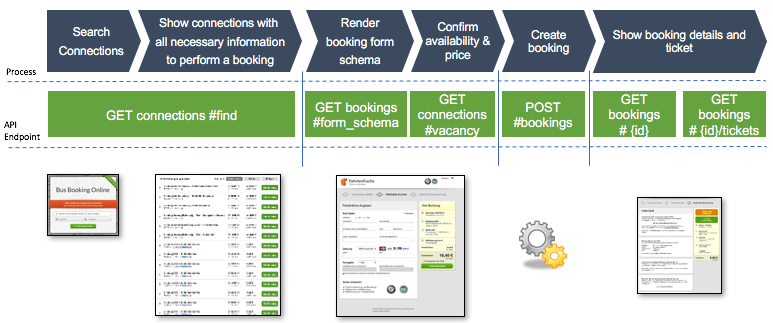
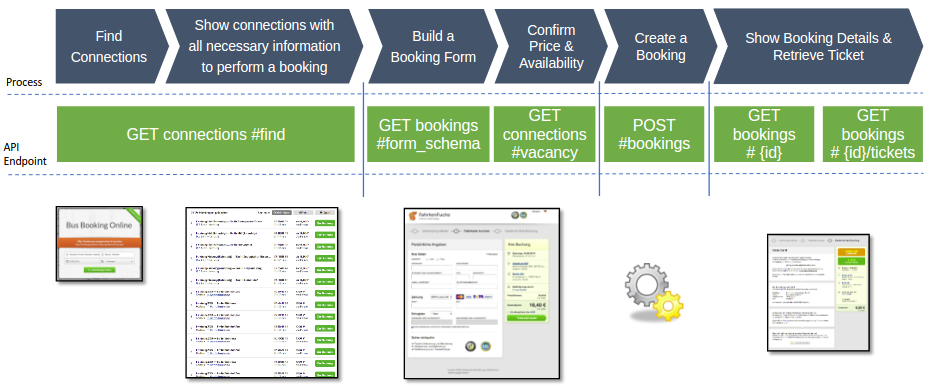
add-dictionary-and-team-picture

diff --git a/source/index.html.md b/source/index.html.md
@@ -20,17 +20,17 @@ search: true
 
 Dear partner,
 
-You made it - in front of you lies the most loved API in transporation industry. Actually it is mostly the love of our dev and product team so far due to it being super brand new, but hope you will fall in love soon too. Anytime feel free to write to me personally to partner@distribusion.com in case you are unhappy or our baby is not behaving as you expected.
+You made it - in front of you lies the most loved API in transporation industry. Actually it is mostly the love of our dev and product team so far due to it being super brand new, but hope you will fall in love soon too. Anytime feel free to write to me personally to [mailto:partner@distribusion.com](partner@distribusion.com) in case you are unhappy or our baby is not behaving as you expected.
 
 You can trust on us working hard everyday to make it your most loved product.
 
 Your Distribusion IT team
 
-[Picture of the whole Distribusion team]
+![alt text](/images/distribusion-it-team.png)
 
-You can use our API to access Distribusion content and book bus rides. We have put a lot of thoughts into making it as easy as possible to integrate with us. Have fun and share your feedback with us! 
+You can use our API to access Distribusion content and book bus rides. We have put a lot of thoughts into making it as easy as possible to integrate with us. Have fun and share your feedback with us!
 
-In this new API, Distribusion aim to standardize the stations codes across the bus industry, the same way IATA did in the flight industry. Our stations code are designed to represent specific locations using a set of 8 capital letters. The construction of such code follow a simple logic: 
+In this new API, Distribusion aim to standardize the stations codes across the bus industry, the same way IATA did in the flight industry. Our stations code are designed to represent specific locations using a set of 8 capital letters. The construction of such code follow a simple logic:
 
 - The first two letters represent the country
 - The next three, the city in which the station is located
@@ -38,12 +38,12 @@ In this new API, Distribusion aim to standardize the stations codes across the b
 
 Example: GBLONVSA - Great Britain / London / Victoria station
 
-When integrating and testing our API, please use the following URL: [https://api-demo.distribusion.com/retailers/v3](https://api-demo.distribusion.com/retailers/v3)
-Documentation for the API v2 can still be found at [Distribusion API](https://api-demo.distribusion.com/reseller/v2/docs) 
+When integrating and testing our API, please use the following URL: `https://api-demo.distribusion.com/retailers/v3`
+Documentation for the API v2 can still be found at [https://api-demo.distribusion.com/reseller/v2/docs](https://api-demo.distribusion.com/reseller/v2/docs)
 
 # Getting Started
 
-When performing a booking through Distribusion API, they are multiple steps that are required. This section is dedicated to describe the standard flow, necessary to search for connections, retrieve availability and prices, build the booking form and perform a booking. 
+When performing a booking through Distribusion API, they are multiple steps that are required. This section is dedicated to describe the standard flow, necessary to search for connections, retrieve availability and prices, build the booking form and perform a booking.
 
 ![alt text](/images/API_V3.0_Workflow.png)  
 
@@ -57,19 +57,19 @@ After retrieving station codes, you can now start searching for connections by s
 
 <aside class="success">
 Remember — to query information from our API, you need to get your own API key!
-</aside> 
-
-## Confirm Price and Availability
-
-As [connections#find](https://api-demo.distribusion.com/retailers/v3/docs/#find) provides the cheapest adult price, it is some time necessary to confirm the price of specific passenger types by calling [connections#vacancy](https://api-demo.distribusion.com/retailers/v3/docs/#vacancy). This call is also recommended prior to perform a booking, in order to ensure the prices and availability are still up to date. 
+</aside>
 
 ## Build a Booking Form
 
-In order to accomodate the specific requirements of each marketing carrier and increase conversion rate, we also deliver a dynamic booking form. Mandatory information as well as the validation rules applied to each parameters are provided through our [bookings#form_schema](https://api-demo.distribusion.com/retailers/v3/docs/#form-schema) endpoint. 
+In order to accomodate the specific requirements of each marketing carrier and increase conversion rate, we also deliver a dynamic booking form. Mandatory information as well as the validation rules applied to each parameters are provided through our [bookings#form_schema](https://api-demo.distribusion.com/retailers/v3/docs/#form-schema) endpoint.
+
+## Confirm Price and Availability
+
+As [connections#find](https://api-demo.distribusion.com/retailers/v3/docs/#find) provides the cheapest adult price, it is some time necessary to confirm the price of specific passenger types by calling [connections#vacancy](https://api-demo.distribusion.com/retailers/v3/docs/#vacancy). This call is also recommended prior to perform a booking, in order to ensure the prices and availability are still up to date.
 
 ## Create a Booking
 
-After gathering information on a specific connection and the passenger information, you can now send a booking request towards Distribusion's API on [bookings#create](https://api-demo.distribusion.com/retailers/v3/docs/#create). The parameters to be sent are dependant of the marketing carrier and should have been delivered to you through the [bookings#form_schema](https://api-demo.distribusion.com/retailers/v3/docs/#form-schema). In case any information is missing, the API will recognise it and inform you accordingly. 
+After gathering information on a specific connection and the passenger information, you can now send a booking request towards Distribusion's API on [bookings#create](https://api-demo.distribusion.com/retailers/v3/docs/#create). The parameters to be sent are dependant of the marketing carrier and should have been delivered to you through the [bookings#form_schema](https://api-demo.distribusion.com/retailers/v3/docs/#form-schema). In case any information is missing, the API will recognise it and inform you accordingly.
 
 ## Postman
 
@@ -547,7 +547,7 @@ curl 'https://api.distribusion.com/retailers/v3/bookings/form_schema?marketing_c
 }
 ```
 
-To create a booking, you will need to retrieve specific information from the customer. In order to do so, you can render a booking form, which is specific to a certain connection and or marketing carrier. This endpoint will deliver you the JSON schema, describing the necessary parameters needed to perform a booking. 
+To create a booking, you will need to retrieve specific information from the customer. In order to do so, you can render a booking form, which is specific to a certain connection and or marketing carrier. This endpoint will deliver you the JSON schema, describing the necessary parameters needed to perform a booking.
 
 ### HTTP Request
 
@@ -788,7 +788,7 @@ Parameter                 | Mandatory | Description
 `zip_code` | true | 2-10-letter alphanumeric string.
 `street_and_number`       | true      | 1-99-letter alphanumeric string.
                           |           |
-`execute_payment`         | true      | Can be `true` or `false`. Flag signalling whether the payment transaction should be executed. 
+`execute_payment`         | true      | Can be `true` or `false`. Flag signalling whether the payment transaction should be executed.
 `payment_method`          | true      | Allowed value: `demand_note`, `credit_card`, `sepa_direct_debit`, `paypal`.
 `payment_token`           | false     | Unique identifier supplied by the payment service provider.
 `payer_id`                | false     | Unique identifier supplied by Paypal.
@@ -800,11 +800,11 @@ Parameter                 | Mandatory | Description
                           |           |  
 `locale`                  | true      | 2-letter alphanumeric lowercase code, according to ISO 639-1 standard.
 `currency`                | true      | 3-letter alphanumeric uppercase code, according to ISO 4217 standard.
-`send_customer_email`     | true      | Flag for sending out (or preventing) of the customer confirmation email from Distribusion. Can be `true` or `false`. 
+`send_customer_email`     | true      | Flag for sending out (or preventing) of the customer confirmation email from Distribusion. Can be `true` or `false`.
                           |           |
 `passengers`              | true      | Array
 `fist_name`               | true      | First name of the passenger, 1-50-letter alphanumeric string.
-`last_name`               | true      | Last name of the customer, 1-50-letter alphanumeric string. 
+`last_name`               | true      | Last name of the customer, 1-50-letter alphanumeric string.
 `type`                    | true      | Passenger type. 4-letter alphanumeric uppercase code, available codes can be obtained from `GET /marketing_carriers`.
                           |           |
 `extras`                  | false     | Array
@@ -1154,7 +1154,7 @@ curl 'https://api.distribusion.com/retailers/v3/cancellations/conditions?booking
 }
 ```
 
-This endpoint enable users to retrieve detailed information about the cancellation of a specific booking. Note that not all marketing carriers offer cancellations and that in some case, the cancellation `fee` do not reflect the flexibility of the terms and conditions due to technical reasons. The current workflow only allow a full (or partial) refund of the booking, no options for vouchers are currently available. 
+This endpoint enable users to retrieve detailed information about the cancellation of a specific booking. Note that not all marketing carriers offer cancellations and that in some case, the cancellation `fee` do not reflect the flexibility of the terms and conditions due to technical reasons. The current workflow only allow a full (or partial) refund of the booking, no options for vouchers are currently available.
 
 ### HTTP Request
 
@@ -1187,7 +1187,7 @@ curl -i --data '{"booking": "2PoHhetdJE02kRe1DhcgOg"}' 'https://api.distribusion
 
 > The above command returns JSON structured like this:
 
-```json 
+```json
 {
   "jsonapi": {
     "version": "1.0"
@@ -1278,7 +1278,7 @@ curl 'https://api.distribusion.com/retailers/v3/marketing_carriers' --header 'Ac
     .....
 ```
 
-This endpoint provides a list of marketing carriers with their trade name and code. 
+This endpoint provides a list of marketing carriers with their trade name and code.
 
 ### HTTP Request
 
@@ -1357,7 +1357,7 @@ curl 'https://api.distribusion.com/retailers/v3/marketing_carriers/JETB?locale=e
 }
 ```
 
-This endpoint enable users to retrieve detailed information about marketing carriers, such as passenger types, cancellations conditions, terms & conditions, etc. 
+This endpoint enable users to retrieve detailed information about marketing carriers, such as passenger types, cancellations conditions, terms & conditions, etc.
 
 ### HTTP Request
 
@@ -1449,7 +1449,7 @@ curl 'https://api.distribusion.com/retailers/v3/stations?locale=en' --header 'Ac
       .....
 ```
 
-This endpoint enable users to retrieve detailed information about stations, such as name, id, GPS location, address and description. 
+This endpoint enable users to retrieve detailed information about stations, such as name, id, GPS location, address and description.
 
 
 ### HTTP Request
@@ -1471,4 +1471,3 @@ Error Code  | Meaning
 400.101.014 | Locale is invalid or missing
 500.000.000 | Internal Server Error
 500.100.000 | Service Unavailable
-

diff --git a/source/includes/_dictionary.md b/source/includes/_dictionary.md
@@ -1,5 +1,29 @@
 # Dictionary
 
-**Operating Carriers**: Operating carriers are the entity actually driving the bus. 
+**Booking Fee**: A fee that is charged by a marketing carrier to the customer in the booking process. It is added on top of all ticket and extra prices and is independent of the amount of passengers (eg. National Express adds a pound on every booking made), not to confuse with Distribusion transaction fee.
 
-**Marketing Carriers**: Marketing carriers are the entity selling operating carriers ticket. The sales are binded by their own terms and conditions. 
+**Carrier**: A Distribusion defined term to identify a Distribusion coded transporation companies.The Carrier can take up two roles within a trip: Marketing Carrier or Operating Carrier. Both is identified with the same code.
+
+**Commission**: Form of payment to a retailer, we have 3 different commission types (OTAs, STAs, Affiliate). All of them are defined as net percentage of gross ticket value.
+
+**Credit Note**: All commissions which retailers receive from Distribusion each month. provided in a PDF format.
+
+**Demand Note**: OTAs and STAs are collecting the ticket revenues of consumers booking trips. A Demand Note is a consolidates statement of these ticket revenue of retailers provided as PDF. It also includes revenues from cancellations.
+
+**IATA**: International Air Transport Association (IATA),  IATA supports airline activity and helps formulate industry policy and standards.
+
+**IATA Code**: 3-letter Codes for airports, started by IATA organization 70 years ago to standardize and harmonize locale of airports for the entire industry.
+
+**Marketing Carriers**: Carrier which is defining the fare rules towards the customer and legally liable for the success of a booked trip (mostly also responsible for customer service). Marketing Carriers are also branding the ticket and using white label products in their solutions.
+
+**OTA**: Short for: Online Travel Agency - website selling (not just showing) travel products to end consumers or business customers. Usually conduct payments and customer service to a certain degree. Distribusion supports OTA to perform "full booking integration" via the API.
+
+**Operating Carriers**: Operating carriers are the entity actually driving the bus.
+
+**PAX**: Abbreviation of "Persons approximately", used in tourism for the number of passengers.
+
+**STA**: Short for Stationary Travel Agencies.
+
+**Travel Agency**: Online or Offline agency which sells tourism and mobility related products online (OTA) and Offline (STA).
+
+**Vacancy**: Activity to derive prices for a selected connections or to verify availability,  based on a selected amount of pax (including the specific types, such as child, adult, etc.)
